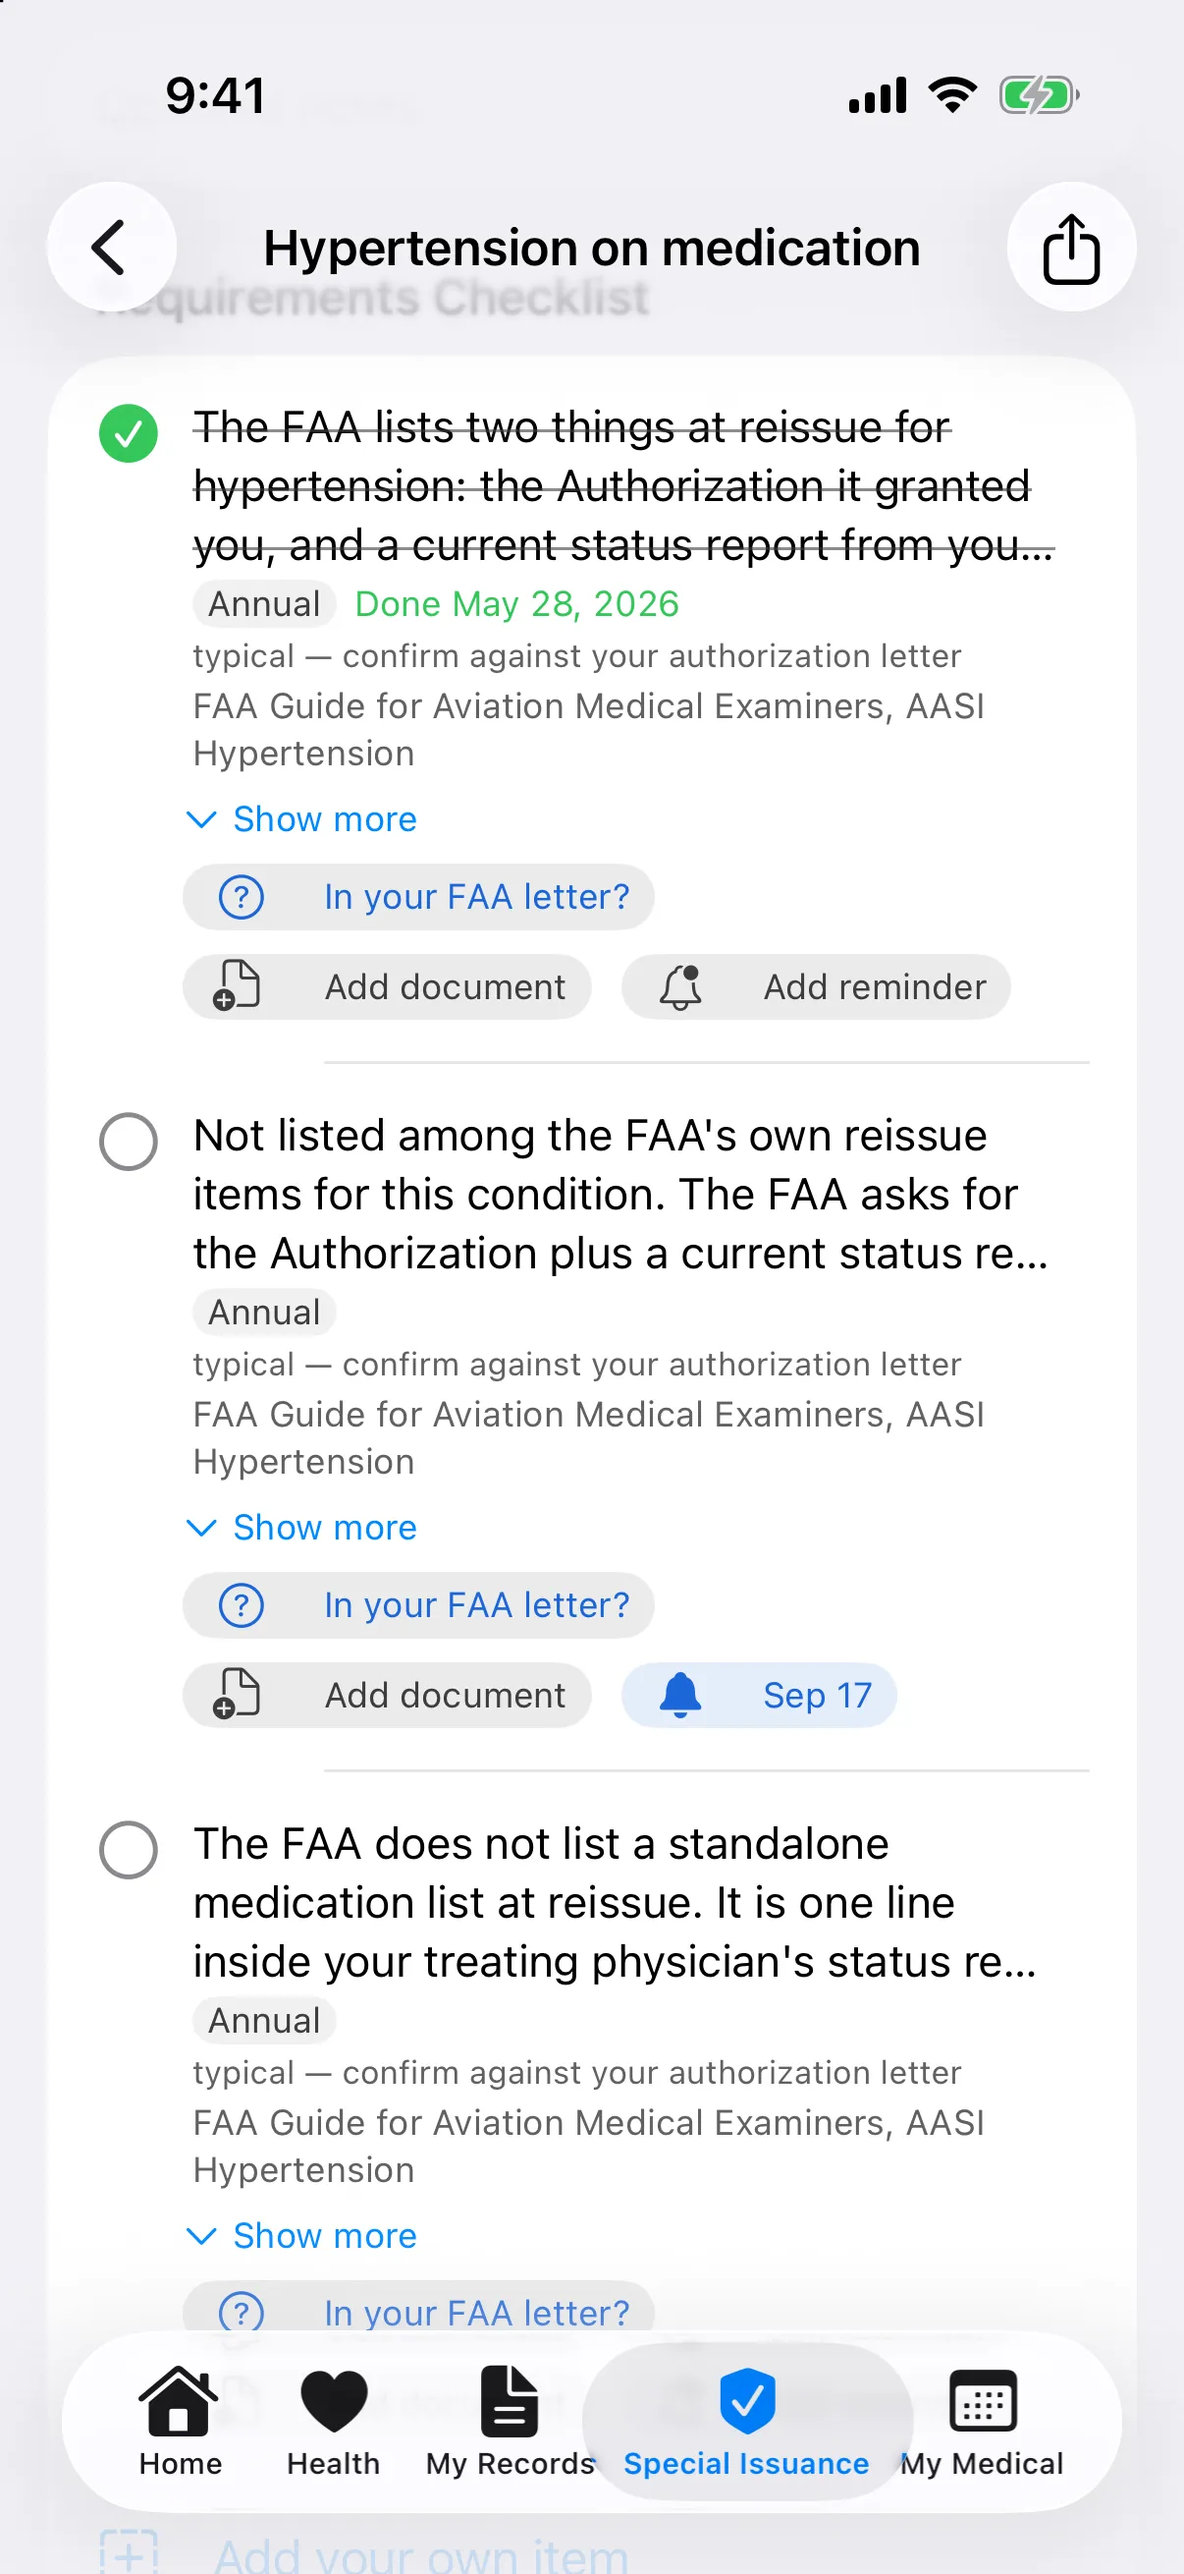
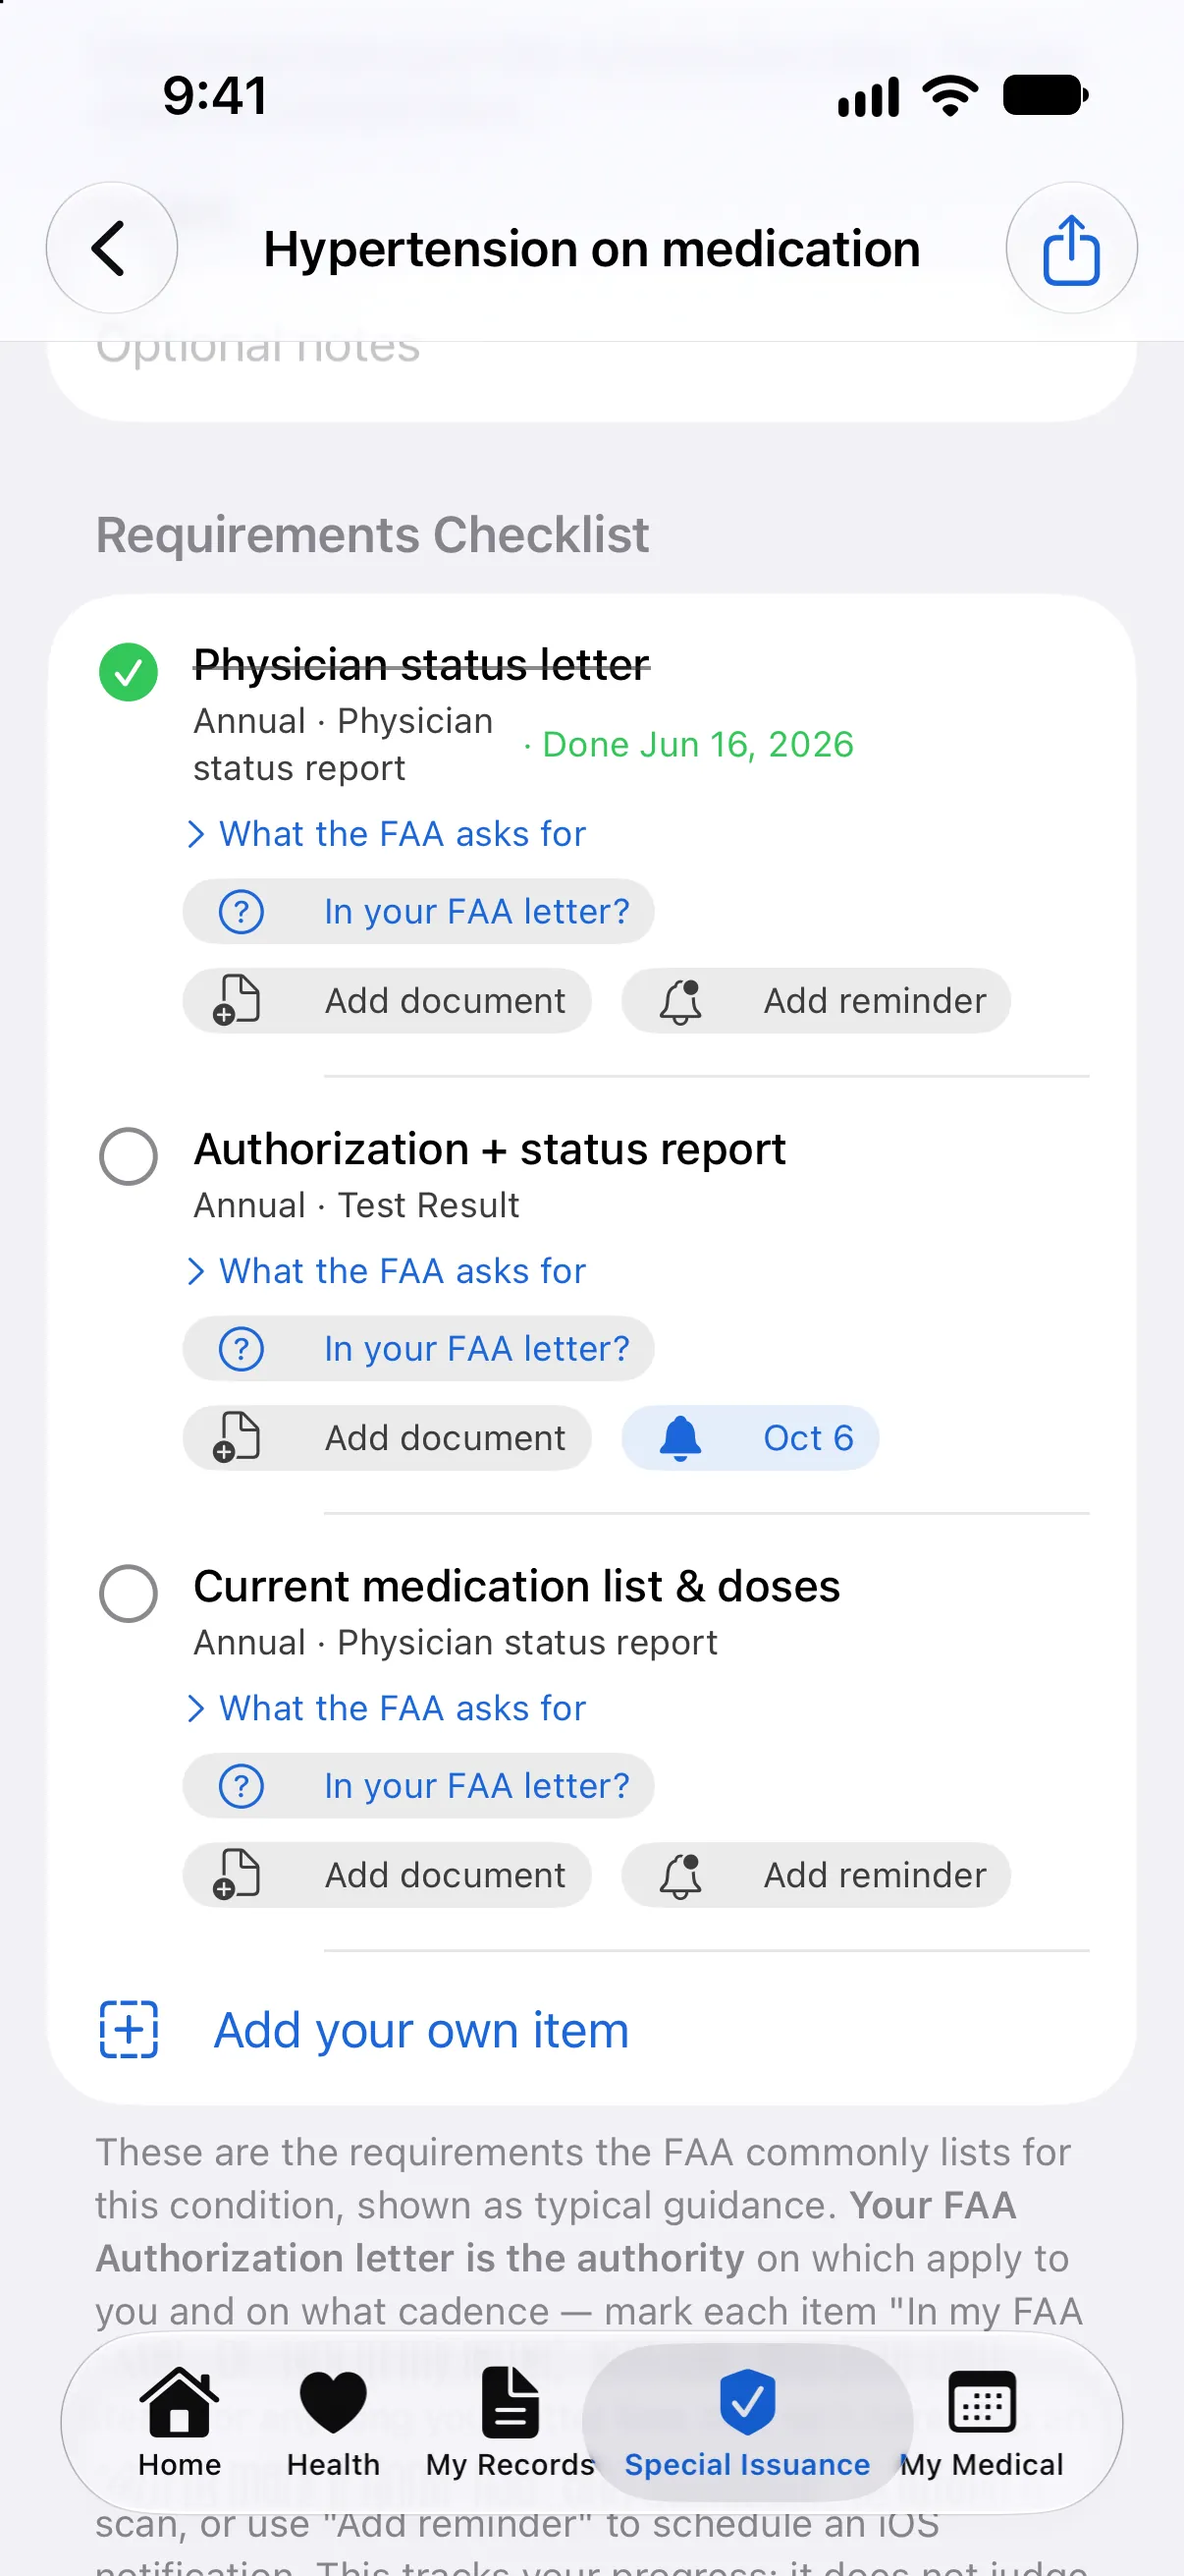
Website sync: the SI screenshot was behind the product, and the site never mentioned the confirmation capture
Two items from this build's website pass. Ryan approved both; the
"physician letters" wording he told me to leave alone.

1. si.webp showed the Special Issuance checklist rendering full FAA
   paragraphs, struck through and truncated with an ellipsis. That is
   exactly the defect this build fixed on iOS, so the page selling
   Special Issuance tracking was showing the product at its worst and
   as it no longer is. Recaptured: rows now read "Physician status
   letter", "Authorization + status report", "Current medication list
   and doses".

   Two things moved with it. The alt text promised "its FAA AME Guide
   citation", which now sits behind a "What the FAA asks for"
   disclosure rather than printing under each row, so the alt text is
   rewritten to describe what the image shows. And the paragraph after
   the figure pointed at "the line under each item in that screenshot:
   typical, confirm against your authorization letter" - a line that is
   no longer under each item. The app still makes that point, in bold,
   as a footer under the whole list, so the sentence now cites it there
   instead of at a place it no longer appears.

   The new capture also drops a defect the old one carried: the live
   shot had a GREEN CHARGING BATTERY in the status bar, which is the
   thing CLAUDE.md warns about. Pinned time and cellular, left battery
   alone, and compared the status-bar strips before believing they
[…]

diff --git a/special-issuance.html b/special-issuance.html
@@ -410,10 +410,10 @@
     <div class="card">
       <p style="margin-top:0"><strong>Pilot Medical Guardian</strong> keeps that cycle in one place. You record your Authorization and its dates, and the app builds a requirements checklist for your condition drawn from the FAA's own AME Guide, with the source cited on every line and a link to the FAA's page. Each item carries its cadence, takes the document you scan for it, and on iPhone and iPad can hold a reminder you set. It is a <strong>privacy-first app for iPhone, iPad, and Mac</strong>: your records stay on your own device and iCloud, and I can never see them.</p>
       <figure class="shot phone">
-        <img src="/screenshots/si.webp?v=20260828" width="1206" height="2620" loading="lazy" decoding="async" alt="Pilot Medical Guardian requirements checklist for hypertension on medication, showing each FAA reissue item with its annual cadence, its FAA AME Guide citation, a completed date, and buttons to add a document or a reminder">
+        <img src="/screenshots/si.webp?v=20260916" width="1206" height="2622" loading="lazy" decoding="async" alt="Pilot Medical Guardian requirements checklist for hypertension on medication, showing each FAA reissue item by name with its annual cadence and the document it needs, one marked done, an expandable link to the FAA AME Guide wording and citation, and buttons to add a document or a reminder">
         <figcaption>The requirements checklist for one condition. Sample data.</figcaption>
       </figure>
-      <p><strong>What it does not do is tell you what your own Authorization requires.</strong> Notice the line under each item in that screenshot: <em>typical, confirm against your authorization letter</em>. That is deliberate, and it is the same thing the FAA says. The AME Guide describes what is generally expected for a condition. Your letter's attachments are what govern for you, and no app can read your letter for you.</p>
+      <p><strong>What it does not do is tell you what your own Authorization requires.</strong> The app says so under the checklist itself: your FAA Authorization letter is the authority on which items apply to you and on what cadence. That is deliberate, and it is the same thing the FAA says. The AME Guide describes what is generally expected for a condition. Your letter's attachments are what govern for you, and no app can read your letter for you.</p>
       <p style="margin-bottom:0">It is an information and record-keeping tool. It shows you the FAA's material and tracks your dates and documents. It does not make any determination about your certification, and it never advises you on what to disclose. You stay in control.</p>
       <div class="links">
         <a class="primary" href="https://apps.apple.com/us/app/pilot-medical-guardian/id6772534988?platform=iphone&amp;pt=128922811&amp;ct=seo-si&amp;mt=8">iPhone &amp; iPad &rarr;</a>

diff --git a/medxpress-guide.html b/medxpress-guide.html
@@ -108,7 +108,7 @@
         "step": [
           { "@type": "HowToStep", "position": 1, "name": "Create your MedXPress account", "text": "Register at medxpress.faa.gov with a valid email address. It is free." },
           { "@type": "HowToStep", "position": 2, "name": "Complete the application (Items 1-20)", "text": "Fill in your personal information, certificate details, medications, medical history, and visits to health professionals. You can save and come back to it." },
-          { "@type": "HowToStep", "position": 3, "name": "Submit it and save your MedXPress confirmation number", "text": "When you submit, the FAA gives you a confirmation number. Your AME uses this number to pull up your application and cannot access it without it." },
+          { "@type": "HowToStep", "position": 3, "name": "Submit it and save your MedXPress confirmation number", "text": "When you submit, the FAA gives you a confirmation number. Your AME uses this number to pull up your application and cannot access it without it. Write it down before you close the tab; the page does not come back. Pilot Medical Guardian offers to save it for you right on that confirmation page, along with the date you submitted and the date it expires." },
           { "@type": "HowToStep", "position": 4, "name": "Bring your confirmation number and photo ID to the exam", "text": "The FAA instructs applicants to bring their MedXPress confirmation number and valid photo identification to the appointment. Your AME reviews your application, performs the exam, and handles the certification decision." }
         ]
       }
@@ -282,7 +282,7 @@
         <div class="step-num">3</div>
         <div class="step-body">
           <h4>Submit it and save your MedXPress confirmation number</h4>
-          <p>When you submit, the FAA gives you a <strong>confirmation number</strong>. Your AME uses this number to pull up your application. Without that number, your AME cannot access it.</p>
+          <p>When you submit, the FAA gives you a <strong>confirmation number</strong>. Your AME uses this number to pull up your application. Without that number, your AME cannot access it. Write it down before you close the tab; the page does not come back. <a href="/">Pilot Medical Guardian</a> offers to save it for you right on that confirmation page, along with the date you submitted and the date it expires.</p>
         </div>
       </div>
       <div class="step">

diff --git a/whats-new.html b/whats-new.html
@@ -104,6 +104,7 @@
         <li><strong>Home &amp; Lock Screen widget:</strong> a glanceable countdown to your medical's expiration, right on your Home or Lock Screen.</li>
         <li><strong>Siri &amp; Spotlight:</strong> ask "when does my medical expire?" out loud, or jump into the app straight from search.</li>
         <li><strong>Calendar reminders:</strong> add your renewal deadline to your own calendar so it reminds you however you've set it up.</li>
+        <li><strong>Save your MedXPress confirmation number:</strong> when you submit, one tap on the FAA's own confirmation page saves the number into the app, with the date you submitted and the date it expires. That page does not come back once you leave it, and your AME cannot open your application without the number. It shows on your Home screen ready to copy at the exam, and it prints on your Share with my AME packet. Free.</li>
         <li><strong>MedXPress autofill:</strong> <span class="pro-tag">Guardian Pro</span> fills your medications and doctor visits straight into the FAA form so you don't retype them every cycle.</li>
         <li><strong>CACI worksheet surfacing:</strong> <span class="pro-tag">Guardian Pro</span> when you log a diagnosis the FAA's CACI worksheets cover, the app pulls up the FAA's own documents-required checklist so you walk in prepared.</li>
         <li><strong>Prior-cycle answer check:</strong> <span class="pro-tag">Guardian Pro</span> snapshots each cycle's prep and flags when this cycle's answers drift from last time.</li>
